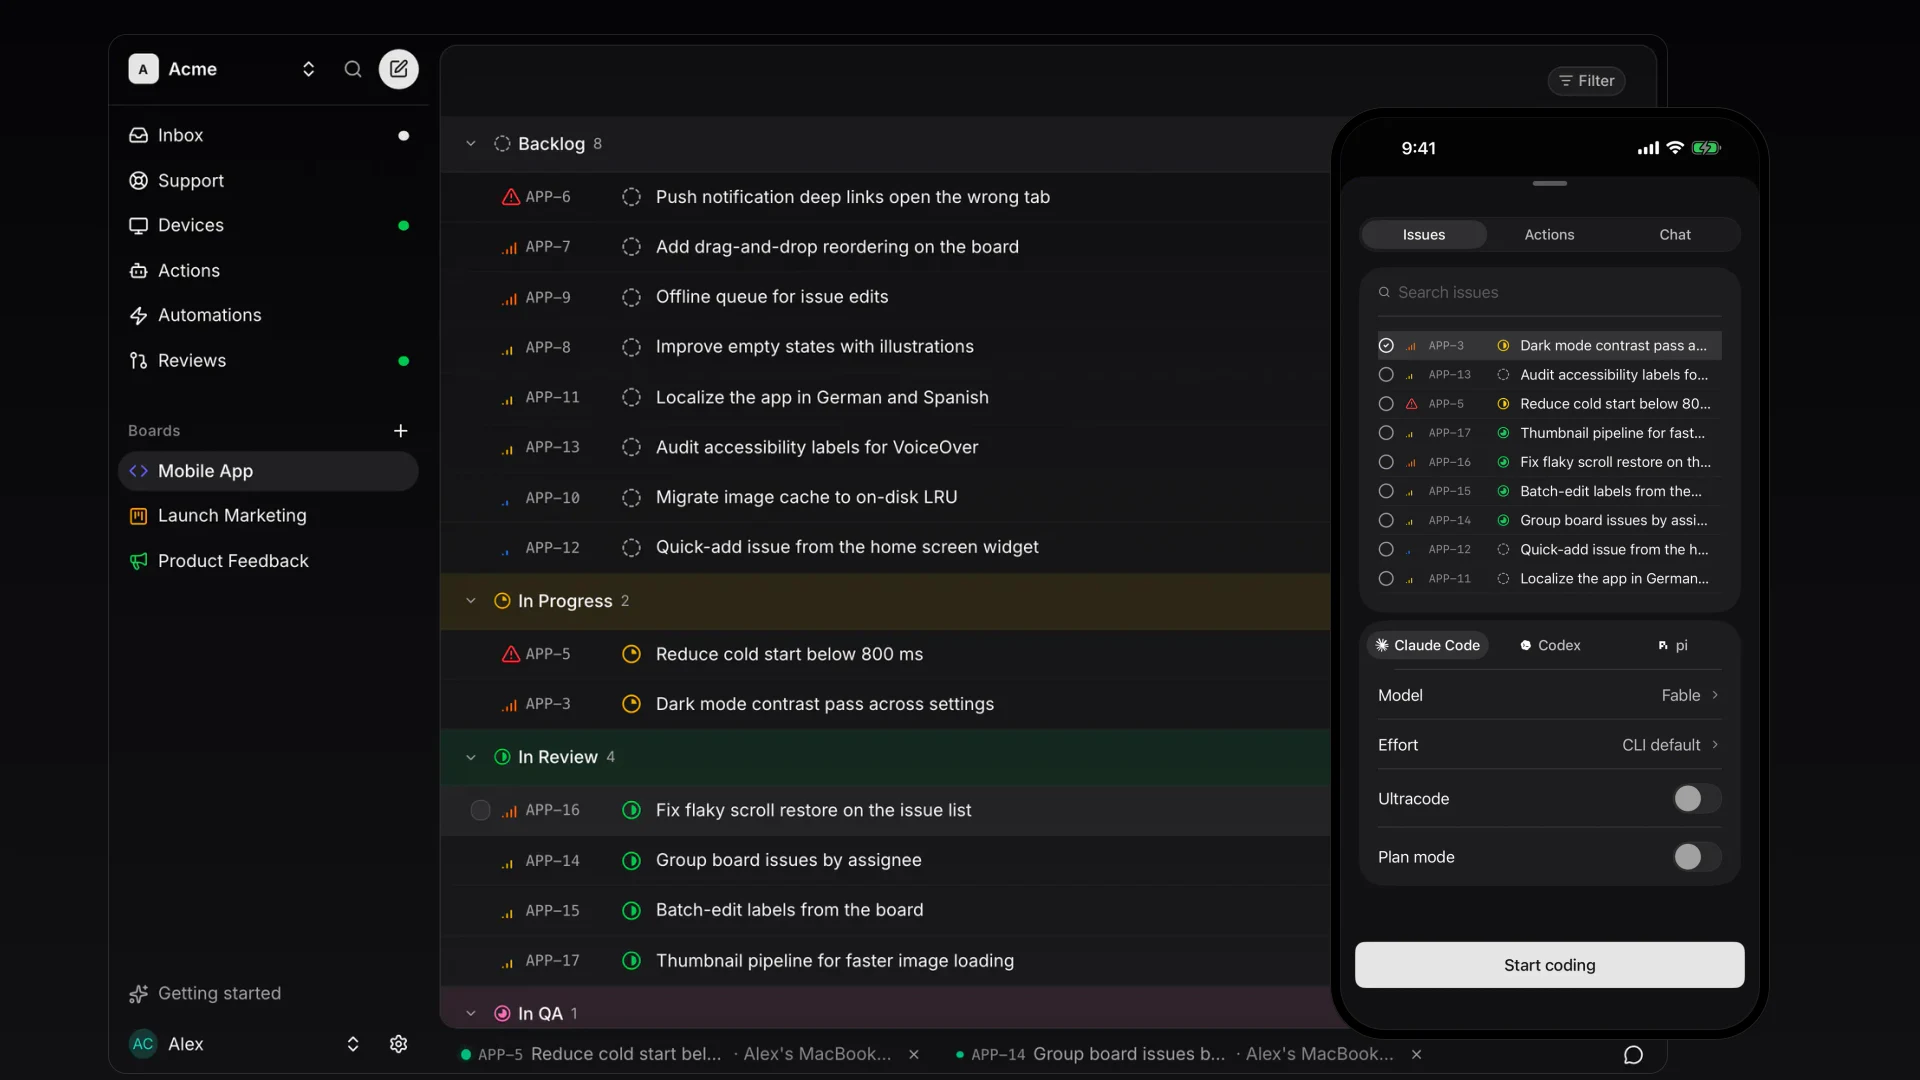
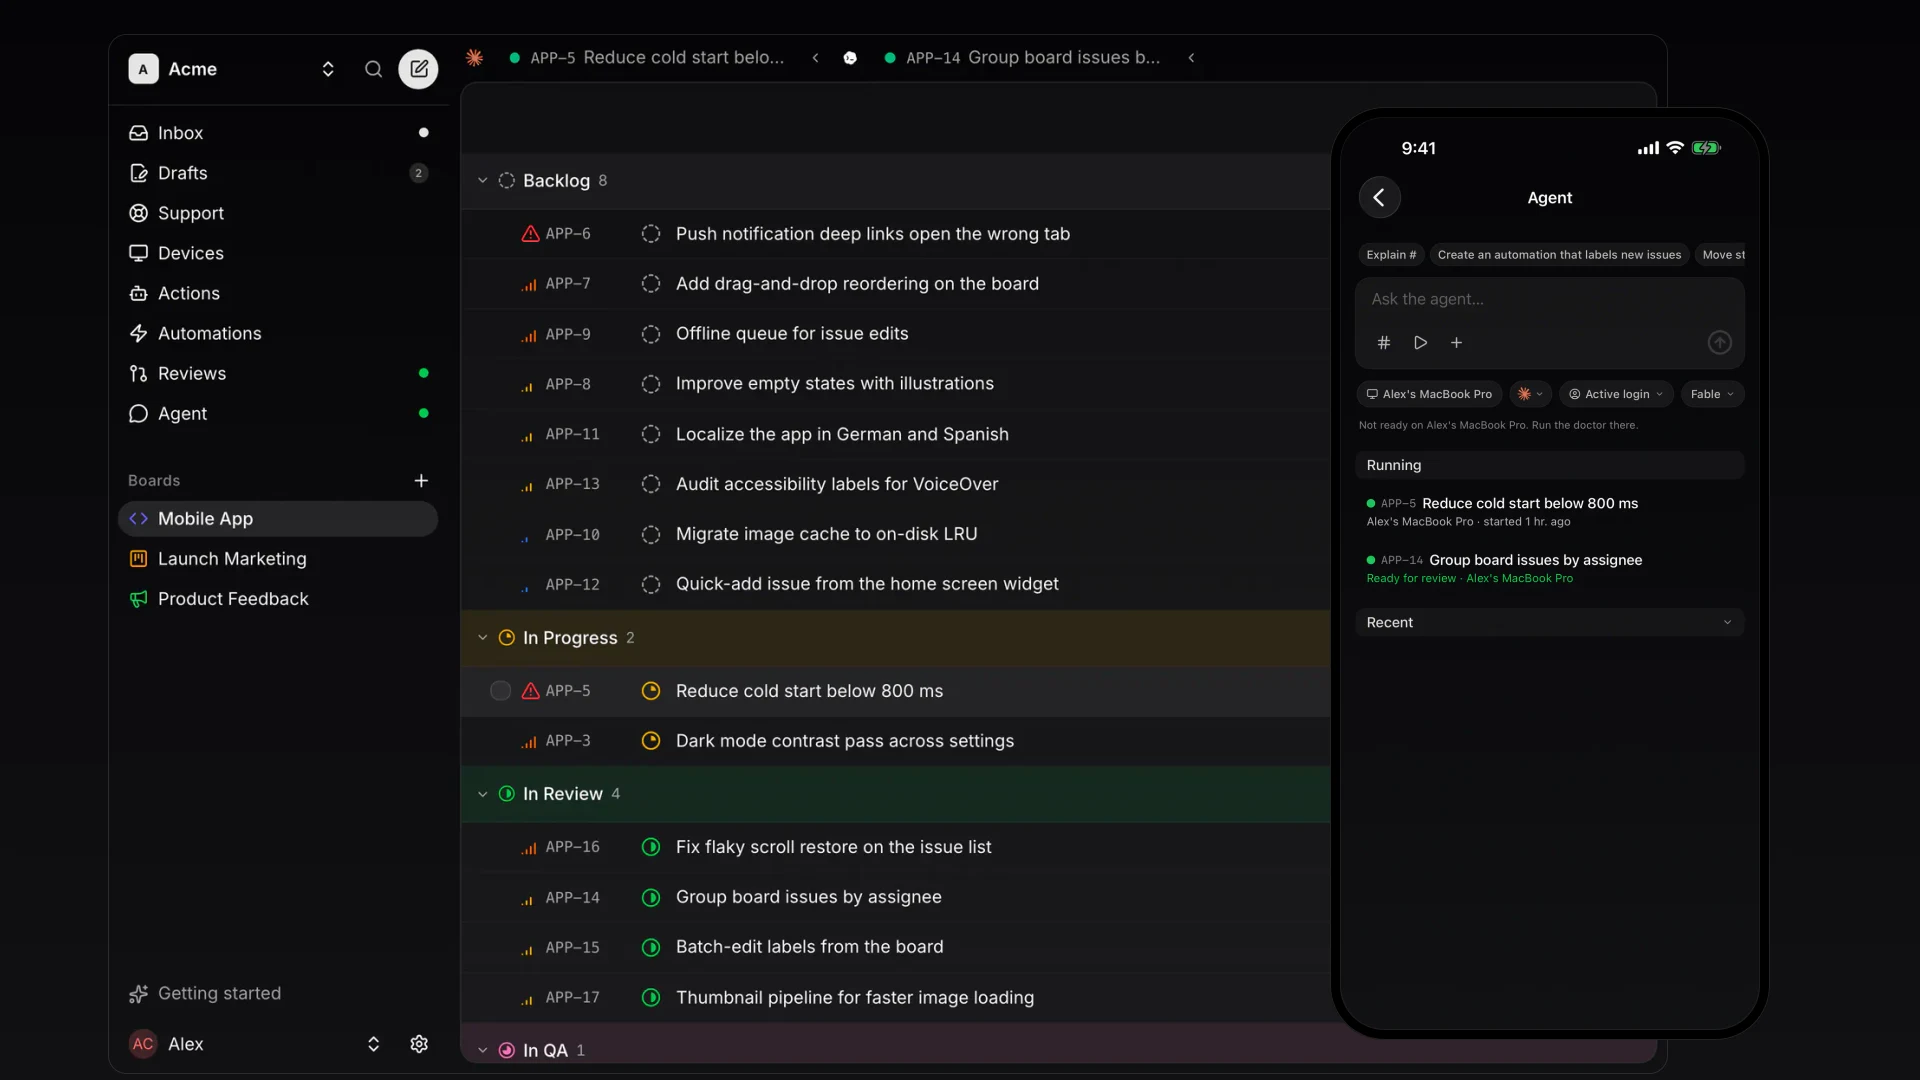
readme: regenerate the hero from the refreshed shot store and bring the feature list up to date
The hero is derived from shots/board/web.webp + shots/chat/ios.webp (the
compact rail, work tabs, the Agent composer on the phone). The list now
names batch and stacked PRs, the Work screen, published results, session
history and the Devices page.

diff --git a/README.md b/README.md
@@ -8,7 +8,7 @@
 **The next generation dev platform for teams.** Issues, customer feedback, and coding agents in one realtime tracker. Agents run on your own machines, on your own subscription. Web, macOS, Linux, Windows, iOS, Android.
 
 <p align="center">
-  <img src="./docs/images/hero.webp" alt="The Exponential board in the browser, with the Start coding sheet on iPhone" width="100%">
+  <img src="./docs/images/hero.webp" alt="The Exponential board in the browser, with the Agent page on iPhone" width="100%">
 </p>
 
 - **Cloud**: [app.exponential.at](https://app.exponential.at/?ref=github), free for up to three people
@@ -18,10 +18,11 @@
 
 ## What you get
 
-- **Issues** with statuses, priorities, labels, due dates, markdown, @mentions. Realtime sync on every client via [ElectricSQL](https://electric-sql.com).
-- **Boards backed by a GitHub repo**: one issue, one branch, one PR, tracked on the issue. Or one combined PR for a batch.
-- **Start coding**: hand an issue to Claude Code or Codex from the desktop app. It plans, codes in a worktree, and opens the PR.
-- **Live steer**: watch and redirect a running session from your phone.
+- **Issues** with statuses, priorities, labels, due dates, markdown, @mentions and #issue references, drafts that follow you across devices. Realtime sync on every client via [ElectricSQL](https://electric-sql.com).
+- **Boards backed by a GitHub repo**: one issue, one branch, one PR, tracked on the issue. One combined PR for a batch, or a stack of PRs for issues that block each other, merged from the review queue.
+- **Start coding**: hand an issue to Claude Code or Codex from any client, on any of your machines. It plans, codes in a worktree, and opens the PR.
+- **One Work screen**: the issue, its run and its changes side by side. Watch the transcript, answer the agent's questions, read the diff and the screenshots it publishes, from your phone or the desktop. Runs keep their history on the machine that ran them.
+- **Your machines, your logins**: every desktop and server lists its agent accounts with plan, usage and reset times; switch a run to another account when one hits its limit.
 - **Actions & automations**: reusable team prompts, run on demand or on a schedule or an issue event, on your own machines.
 - **Headless CLI**: `exponential` turns any Linux or macOS box into an always-on agent machine your team starts runs on.
 - **Feedback widget & helpdesk**: a script tag for your site; bug reports with annotated screenshots land as issues, support requests as email tickets in a shared inbox.
